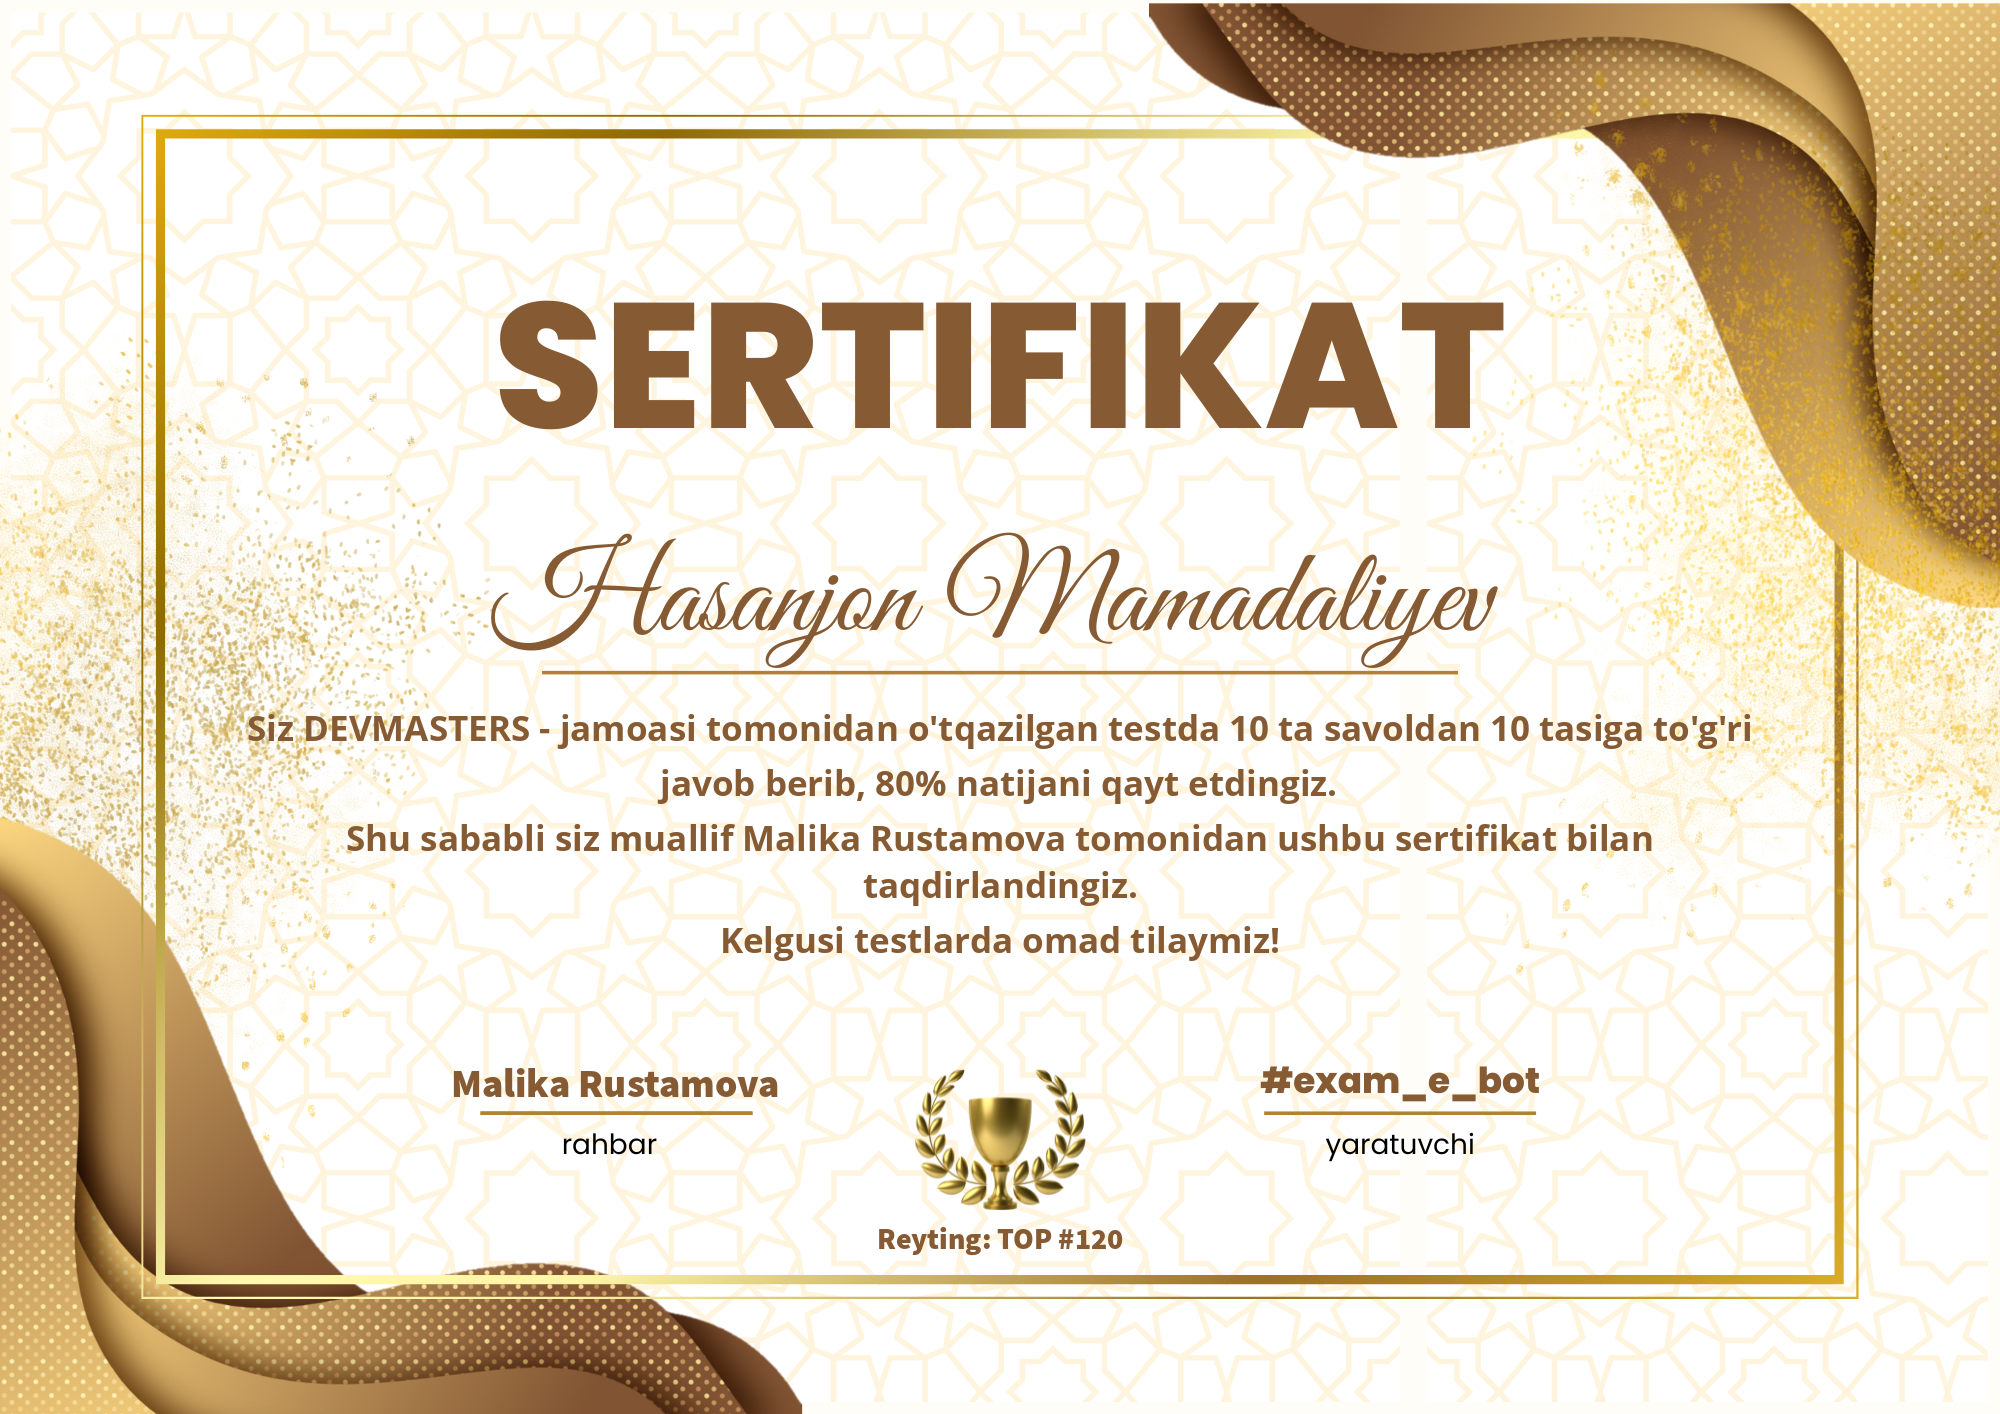
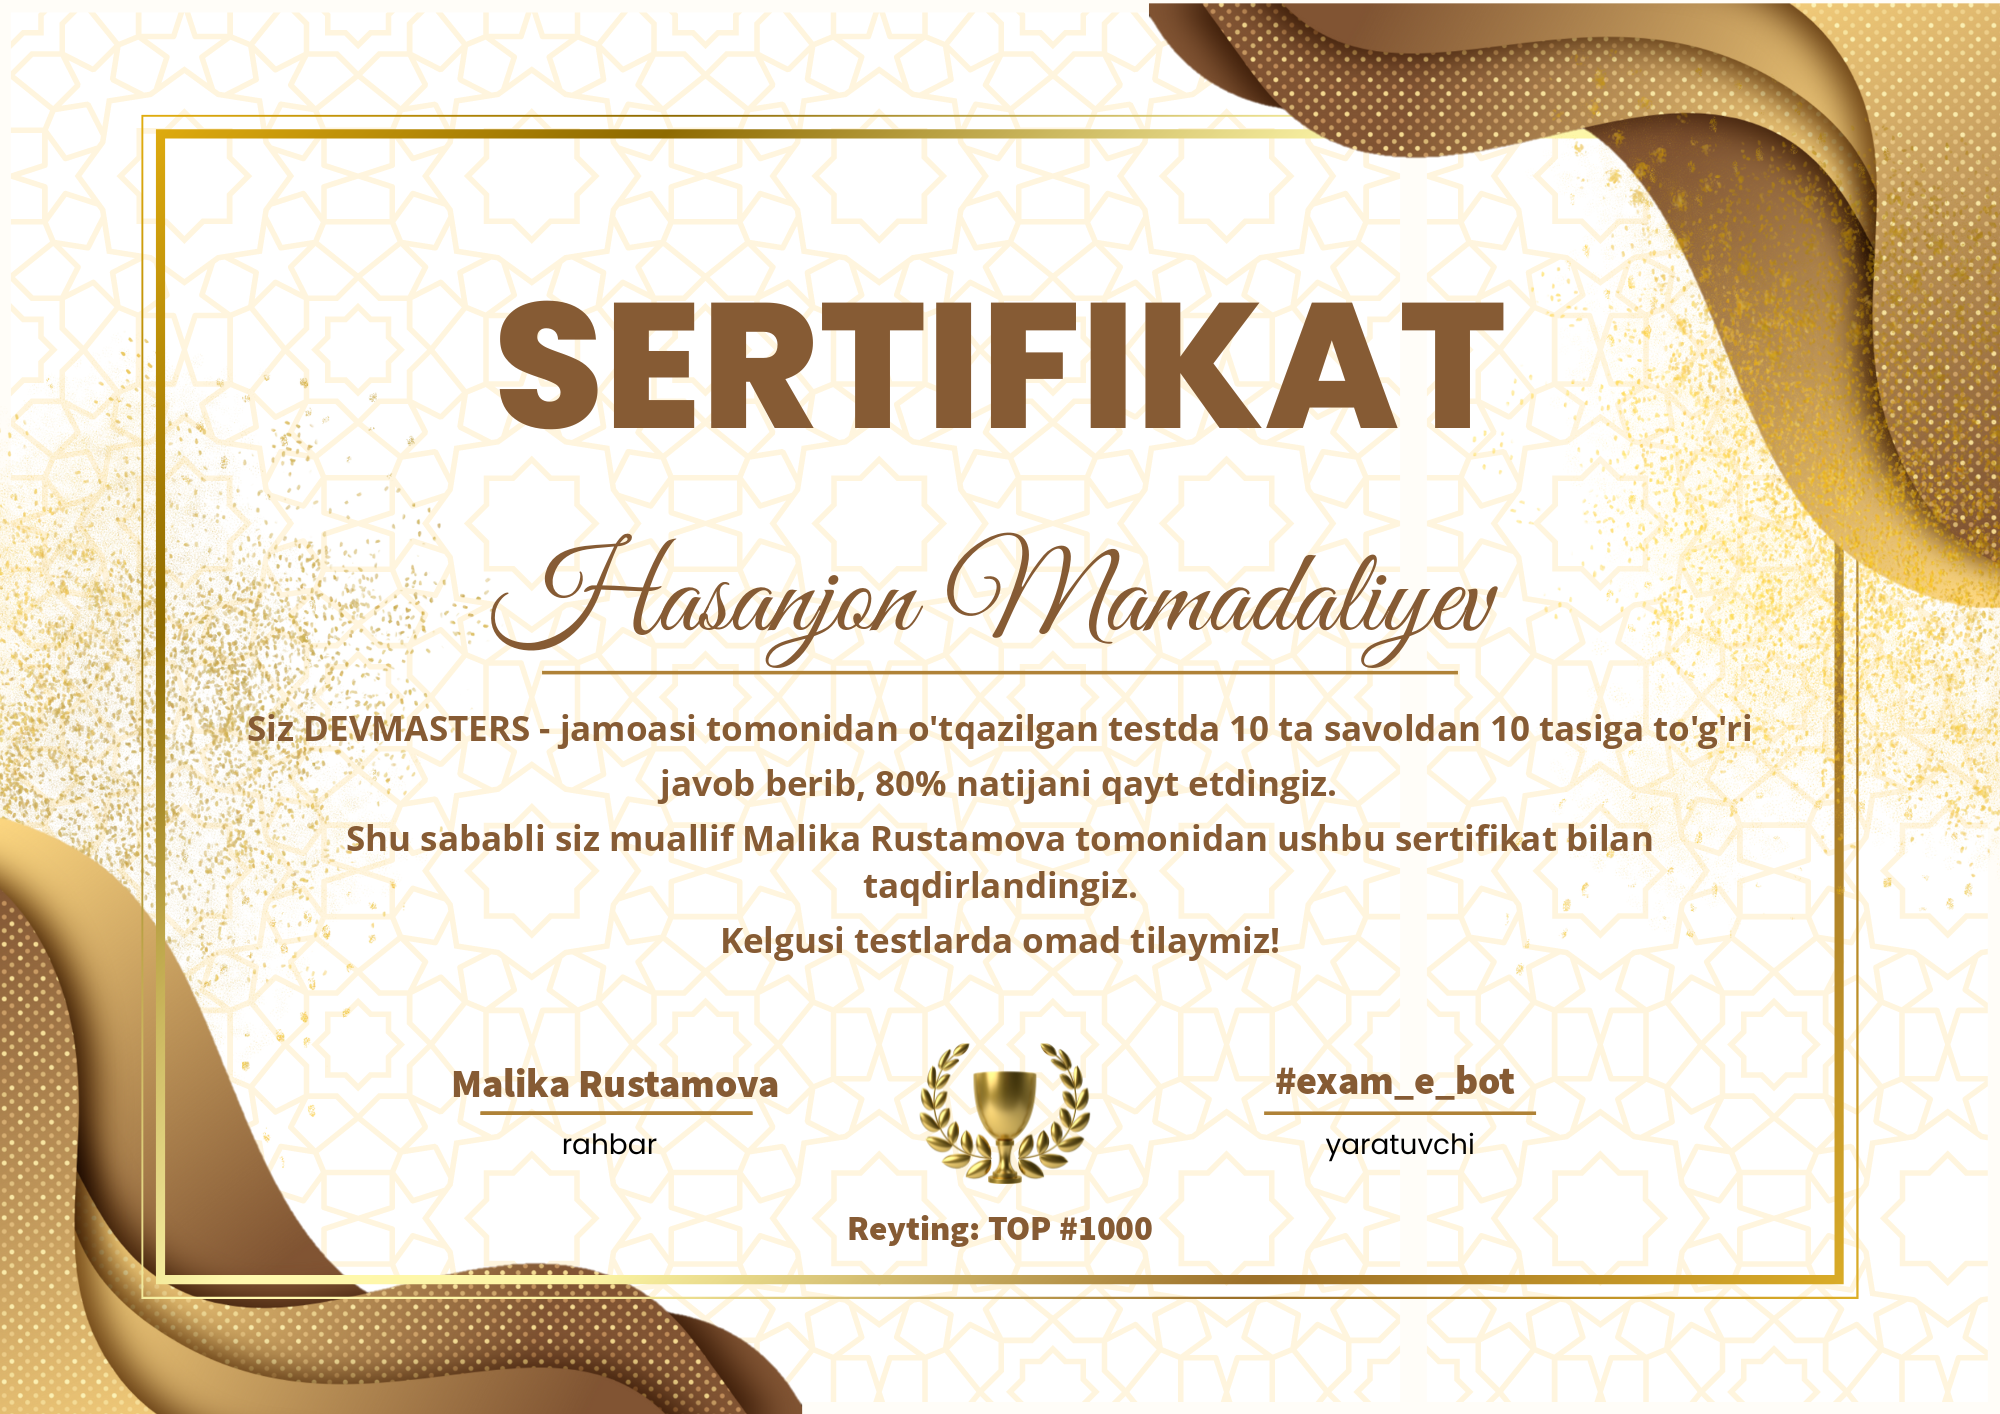
r

Changed region(s): [[0.434, 0.7468, 0.589, 0.9024], [0.62, 0.7468, 0.775, 0.7779]]

diff --git a/main1.py b/main1.py
@@ -39,7 +39,7 @@ def wrap_text_to_width(draw, text, font, max_width):
     return lines
 
 
-def coupons(names: list, certificate: str, channel_name: str, font_path: str):
+def generate_certificate(names: list, certificate: str, channel_name: str, font_path: str):
     if not os.path.exists("certificates"):
         os.makedirs("certificates")
 
@@ -53,6 +53,7 @@ def coupons(names: list, certificate: str, channel_name: str, font_path: str):
         percentage = 80
         author_name = 'Malika Rustamova'
         channel_name = 'devmasters'
+        # TODO ... fix values
         text = (
             f"Siz {channel_name.upper()} - jamoasi tomonidan o'tqazilgan testda {count_test} ta savoldan {count_test} "
             f"tasiga to'g'ri javob berib,"
@@ -64,28 +65,28 @@ def coupons(names: list, certificate: str, channel_name: str, font_path: str):
 
         # writing name
         name_size = 120
-        font_name = ImageFont.truetype(font_path, name_size)
-        font_name = fit_text_to_width(draw, name, font_name, image_width - 40)
-        text_bbox = draw.textbbox((0, 0), name, font=font_name)
-        text_w = text_bbox[2] - text_bbox[0]
-        text_h = text_bbox[3] - text_bbox[1]
+        name_font = ImageFont.truetype(font_path, name_size)
+        name_font = fit_text_to_width(draw, name, name_font, image_width - 40)
+        name_bbox = draw.textbbox((0, 0), name, font=name_font)
+        text_w = name_bbox[2] - name_bbox[0]
+        text_h = name_bbox[3] - name_bbox[1]
         text_x_position = (image_width - text_w) / 2
         text_y_position = (image_height - text_h) / 2 - 100
-        draw.text((text_x_position, text_y_position), name, font=font_name, fill=(134, 91, 52))
+        draw.text((text_x_position, text_y_position), name, font=name_font, fill=(134, 91, 52))
 
         # writing text
         text_size = 35
-        font_text = ImageFont.truetype(font_channel_path, text_size)
+        text_font = ImageFont.truetype(font_channel_path, text_size)
         wrapped_text = []
         for line in text:
-            wrapped_lines = wrap_text_to_width(draw, line, font_text, image_width - 40)
+            wrapped_lines = wrap_text_to_width(draw, line, text_font, image_width - 40)
             wrapped_text.extend(wrapped_lines)
         total_text_height = sum(
-            draw.textbbox((0, 0), line, font=font_text)[3] - draw.textbbox((0, 0), line, font=font_text)[1] for line in
+            draw.textbbox((0, 0), line, font=text_font)[3] - draw.textbbox((0, 0), line, font=text_font)[1] for line in
             wrapped_text)
         y = (image_height - total_text_height) / 2 + 80
         for line in wrapped_text:
-            font_text = fit_text_to_width(draw, line, font_text, image_width - 40)
+            font_text = fit_text_to_width(draw, line, text_font, image_width - 40)
             bbox = draw.textbbox((0, 0), line, font=font_text)
             text_w = bbox[2] - bbox[0]
             text_h = bbox[3] - bbox[1]
@@ -105,23 +106,35 @@ def coupons(names: list, certificate: str, channel_name: str, font_path: str):
         text_y_position = (image_height - text_h) / 2 + 365
         draw.text((text_x_position, text_y_position), author_name, font=font_author, fill=(134, 91, 52))
 
+        # writing bot name
+        bot_size = 40
+        bot_font_path = 'fonts/text-font-2.otf'
+        bot_text = '#exam_e_bot'
+        bot_font = ImageFont.truetype(bot_font_path, bot_size)
+        bot_bbox = draw.textbbox((0, 0), bot_text, font=bot_font)
+        text_w = bot_bbox[2] - bot_bbox[0]
+        text_h = bot_bbox[3] - bot_bbox[1]
+        text_x_position = (image_width - text_w) / 2 + 395
+        text_y_position = (image_height - text_h) / 2 + 365
+        draw.text((text_x_position, text_y_position), bot_text, font=bot_font, fill=(134, 91, 52))
+
         # writing rank
-        rank_size = 30
+        rank_size = 35
         rank_font_path = 'fonts/text-font-2.otf'
-        rank_number = 120
+        rank_number = 1000
         rank_text = 'Reyting: TOP #' + str(rank_number)
         rank_font = ImageFont.truetype(rank_font_path, rank_size)
         rank_bbox = draw.textbbox((0, 0), rank_text, font=rank_font)
         text_w = rank_bbox[2] - rank_bbox[0]
         text_h = rank_bbox[3] - rank_bbox[1]
         text_x_position = (image_width - text_w) / 2
-        text_y_position = (image_height - text_h) / 2 + 527
+        text_y_position = (image_height - text_h) / 2 + 515
         draw.text((text_x_position, text_y_position), rank_text, font=rank_font, fill=(134, 91, 52))
 
         img.save(os.path.join("certificates", "{}.png".format(name)))
 
 
 FONT = "fonts/font5.otf"
-CERTIFICATE = "templates/template2.png"
+CERTIFICATE = "templates/template.png"
 NAMES = ['Hasanjon Mamadaliyev']
 coupons(NAMES, CERTIFICATE, 'devmasters', FONT)
